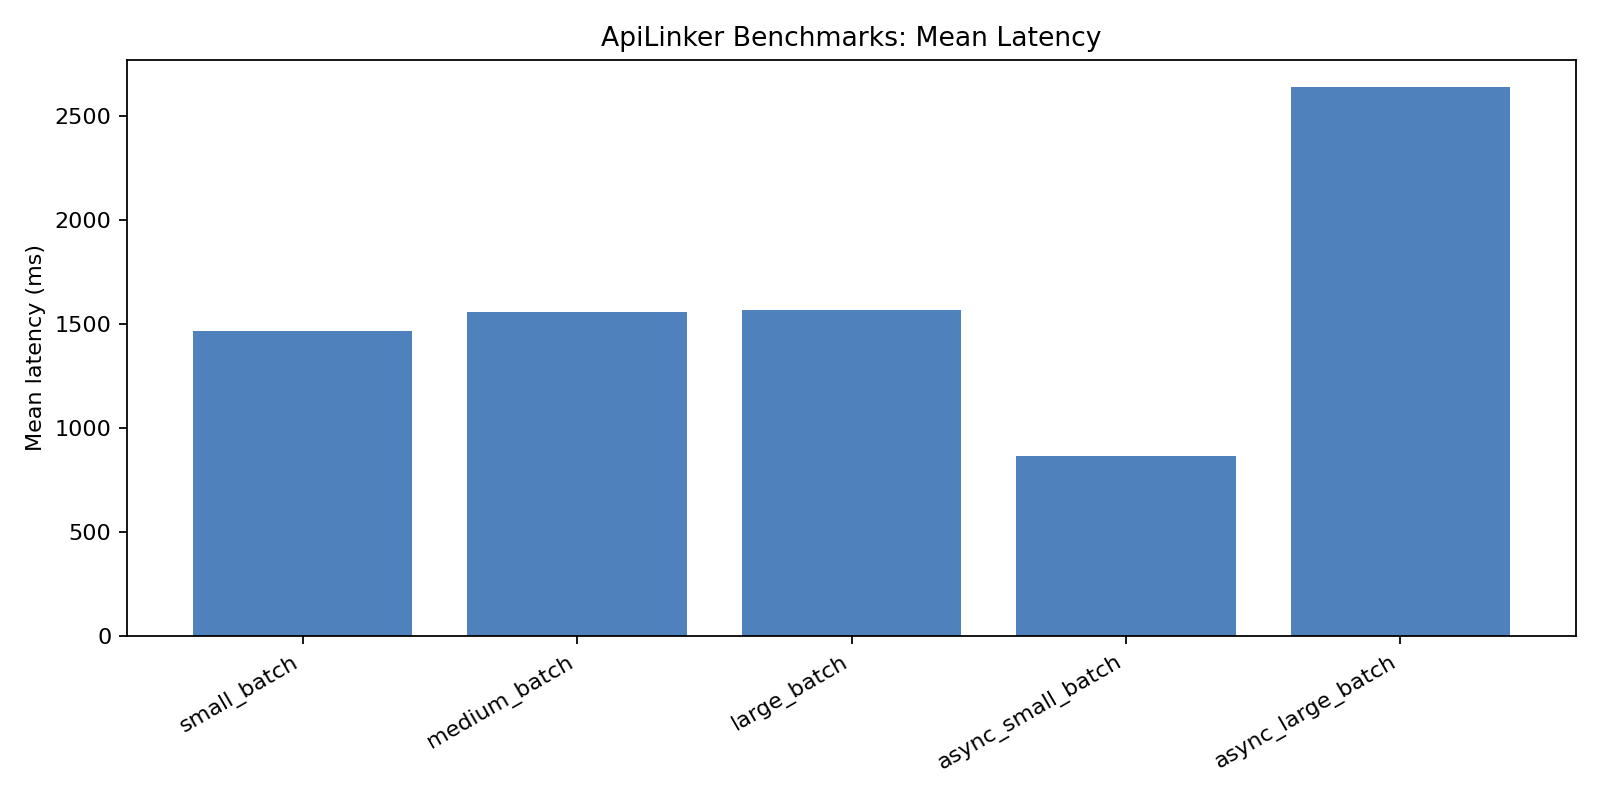
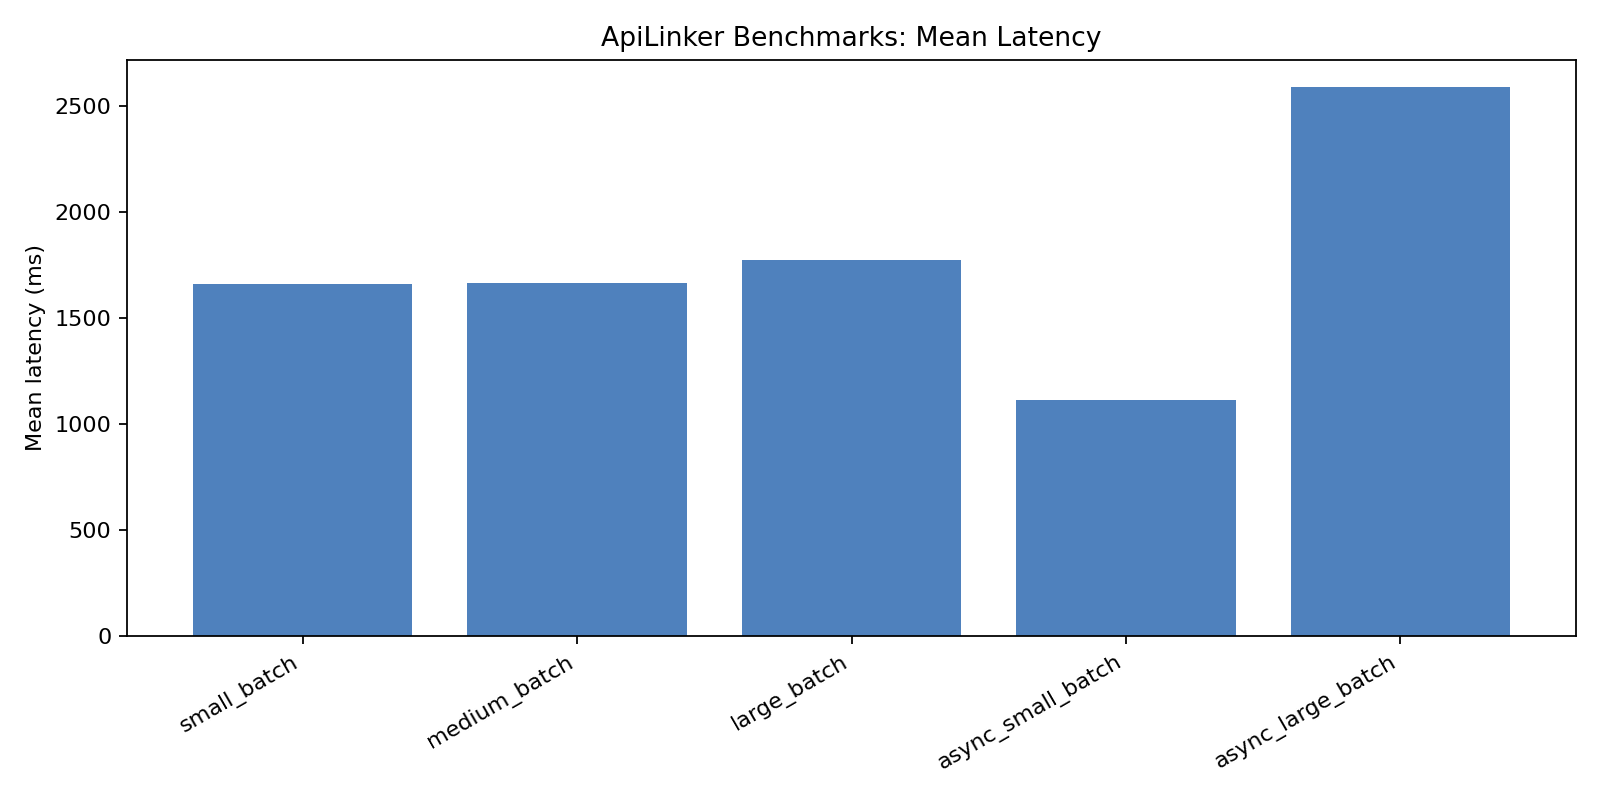
feat: enhance benchmarking with async tuning options and update results reporting; adjust coverage timestamp and refine performance metrics

diff --git a/benchmarks/scenarios.py b/benchmarks/scenarios.py
@@ -9,6 +9,7 @@ Defines small end-to-end runs against a local mock server to measure:
 
 from __future__ import annotations
 
+import os
 from typing import Any, Callable, Dict
 
 from apilinker.api_linker import ApiLinker
@@ -53,6 +54,13 @@ async def _setup_async_connectors(base_url: str) -> AsyncApiConnector:
     )
     return connector
 
+def _env_int(name: str, default: int) -> int:
+    try:
+        return int(os.getenv(name, str(default)))
+    except Exception:
+        return default
+
+
 def scenario_async_small_batch() -> None:
     server = MockServer()
     server.route("GET", "/users", {"data": [{"id": i, "name": f"user-{i}"} for i in range(10)]})
@@ -64,7 +72,12 @@ def scenario_async_small_batch() -> None:
             try:
                 src = await connector.fetch_data("list_users")
                 data = src if isinstance(src, list) else src.get("data", [])
-                await connector.send_data("create_user", data, concurrency_limit=32, batch_size=10)
+                await connector.send_data(
+                    "create_user",
+                    data,
+                    concurrency_limit=_env_int("APILINKER_ASYNC_CONCURRENCY", 32),
+                    batch_size=_env_int("APILINKER_ASYNC_BATCH", 10),
+                )
             finally:
                 await connector.aclose()
         import asyncio as _asyncio
@@ -83,7 +96,12 @@ def scenario_async_large_batch() -> None:
             try:
                 src = await connector.fetch_data("list_users")
                 data = src if isinstance(src, list) else src.get("data", [])
-                await connector.send_data("create_user", data, concurrency_limit=256, batch_size=100)
+                await connector.send_data(
+                    "create_user",
+                    data,
+                    concurrency_limit=_env_int("APILINKER_ASYNC_CONCURRENCY", 256),
+                    batch_size=_env_int("APILINKER_ASYNC_BATCH", 100),
+                )
             finally:
                 await connector.aclose()
         import asyncio as _asyncio

diff --git a/benchmarks/run_benchmarks.py b/benchmarks/run_benchmarks.py
@@ -1,6 +1,7 @@
 from __future__ import annotations
 
 import argparse
+import os
 from pathlib import Path
 
 from .benchmark_harness import run_scenarios
@@ -11,9 +12,16 @@ def main():
     parser = argparse.ArgumentParser(description="Run ApiLinker benchmark scenarios")
     parser.add_argument("--iterations", type=int, default=10, help="Iterations per scenario")
     parser.add_argument("--out", type=str, default=str(Path("benchmarks") / "results"))
+    parser.add_argument("--async-concurrency", type=int, help="Override async concurrency for benchmarks")
+    parser.add_argument("--async-batch", type=int, help="Override async batch size for benchmarks")
     args = parser.parse_args()
 
     out_dir = Path(args.out)
+    # Propagate async tuning options via environment for scenarios
+    if args.async_concurrency:
+        os.environ["APILINKER_ASYNC_CONCURRENCY"] = str(args.async_concurrency)
+    if args.async_batch:
+        os.environ["APILINKER_ASYNC_BATCH"] = str(args.async_batch)
     results = run_scenarios(SCENARIOS, iterations=args.iterations, out_dir=out_dir)
     print(f"Wrote results to {out_dir}")
 

diff --git a/benchmarks/results/README.md b/benchmarks/results/README.md
@@ -5,59 +5,59 @@ Total scenarios: 5
 ## small_batch
 
 - iterations: 5
-- duration_seconds: 7.3473
-- mean_ms: 1469.43
-- median_ms: 1372.47
-- p95_ms: 1433.91
-- min_ms: 1174.78
-- max_ms: 2006.91
-- rps: 0.68
-- peak_memory_mb: 0.21
+- duration_seconds: 8.3118
+- mean_ms: 1662.34
+- median_ms: 1597.28
+- p95_ms: 1758.53
+- min_ms: 1387.06
+- max_ms: 2074.19
+- rps: 0.60
+- peak_memory_mb: 0.19
 
 ## medium_batch
 
 - iterations: 5
-- duration_seconds: 7.7947
-- mean_ms: 1558.91
-- median_ms: 1564.81
-- p95_ms: 1762.75
-- min_ms: 1132.59
-- max_ms: 1956.67
-- rps: 0.64
+- duration_seconds: 8.3305
+- mean_ms: 1666.08
+- median_ms: 1607.81
+- p95_ms: 1796.56
+- min_ms: 1371.33
+- max_ms: 1975.75
+- rps: 0.60
 - peak_memory_mb: 0.83
 
 ## large_batch
 
 - iterations: 5
-- duration_seconds: 7.8531
-- mean_ms: 1570.60
-- median_ms: 1547.47
-- p95_ms: 1565.55
-- min_ms: 1477.61
-- max_ms: 1782.13
-- rps: 0.64
+- duration_seconds: 8.8797
+- mean_ms: 1775.92
+- median_ms: 1804.67
+- p95_ms: 1826.00
+- min_ms: 1554.29
+- max_ms: 1903.90
+- rps: 0.56
 - peak_memory_mb: 7.40
 
 ## async_small_batch
 
 - iterations: 5
-- duration_seconds: 4.3350
-- mean_ms: 866.97
-- median_ms: 862.75
-- p95_ms: 865.81
-- min_ms: 832.95
-- max_ms: 917.04
-- rps: 1.15
+- duration_seconds: 5.5577
+- mean_ms: 1111.52
+- median_ms: 1141.53
+- p95_ms: 1152.14
+- min_ms: 961.75
+- max_ms: 1311.15
+- rps: 0.90
 - peak_memory_mb: 0.60
 
 ## async_large_batch
 
 - iterations: 5
-- duration_seconds: 13.2034
-- mean_ms: 2640.67
-- median_ms: 2680.04
-- p95_ms: 2795.29
-- min_ms: 1998.26
-- max_ms: 3389.82
-- rps: 0.38
-- peak_memory_mb: 18.23
+- duration_seconds: 12.9435
+- mean_ms: 2588.68
+- median_ms: 2820.99
+- p95_ms: 2990.40
+- min_ms: 1673.45
+- max_ms: 3026.81
+- rps: 0.39
+- peak_memory_mb: 16.67
